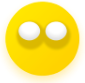
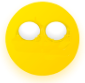
陀螺仪指南针 + 移动的眼睛

Changed region(s): [[0.1882, 0.3133, 0.8235, 0.6024]]

diff --git a/web/scripts/devic/index.js b/web/scripts/devic/index.js
@@ -1,0 +1,48 @@
+'use strict';
+    new VConsole();
+let eyeLeftPosition = {
+    start: [70, 78],
+    end: [100, 110]
+};
+
+let eyeRightPosition = {
+    start: [150, 78],
+    end: [190, 110]
+};
+
+let eyeLeftCenterPosition = {
+    x: (eyeLeftPosition.end[0] - eyeLeftPosition.start[0]) / 2 + eyeLeftPosition.start[0],// X轴 100 - （70 / 2） + 70  = 135
+    y: (eyeLeftPosition.end[1] - eyeLeftPosition.start[1]) / 2 + eyeLeftPosition.start[1] // Y轴 110 - （78 / 2）+ 70 = 135
+};
+
+let eyeRightCenterPosition = {
+    x: (eyeRightPosition.end[0] - eyeRightPosition.start[0]) / 2 + eyeRightPosition.start[0],
+    y: (eyeRightPosition.end[1] - eyeRightPosition.start[1]) / 2 + eyeRightPosition.start[1]
+};
+
+let r = 40;  // 控制旋转
+
+let eyeLeft = document.querySelector('#eyeLeft');
+let eyeRight = document.querySelector('#eyeRight');
+
+if (window.DeviceOrientationEvent) {
+
+    window.addEventListener('deviceorientation', function (event) {
+
+        let {alpha, beta, gamma} = event;
+        console.log(alpha) // Y轴  // 没有使用
+        console.log(beta) // X轴
+        console.log(gamma) // Z轴
+        document.querySelector('#alpha').innerHTML = alpha;
+        document.querySelector('#beta').innerHTML = beta;
+        document.querySelector('#gamma').innerHTML =gamma + '----' + gamma / 90 * r;
+
+        eyeLeft.style.left = eyeLeftCenterPosition.x + gamma / 90 * r + 'px'; // 左眼边距位置
+        eyeRight.style.left = eyeRightCenterPosition.x + gamma / 90 * r + 'px';  // 右眼的边距状态
+        eyeLeft.style.top = eyeRight.style.top = eyeLeftCenterPosition.y + beta / 180 * r + 'px';  // 到顶部距离
+        eyeRight.style.transform = eyeLeft.style.transform = 'rotate(' + beta + 'deg)';  // 眼睛旋转角度
+
+    }, false);
+} else {
+    document.querySelector('body').innerHTML = '浏览器不支持DeviceOrientationEvent';
+}

diff --git a/web/styles/device/style.css b/web/styles/device/style.css
@@ -1,0 +1,37 @@
+#box{
+    position: relative;
+    width: 300px;
+    margin: 0 auto;
+}
+#face{
+    background-image: url('../../images/face.png');
+    background-size: cover;
+    width: 300px;
+    height: 300px;
+    position: absolute;
+}
+#eyeLeft{
+    background-image: url(../images/eye.png);
+    background-size: cover;
+    width: 40px;
+    height: 40px;
+    position: absolute;
+    top: 90px;
+    left: 100px;
+}
+#eyeRight{
+    background-image: url('../../images/eye.png');
+    background-size: cover;
+    width: 40px;
+    height: 40px;
+    position: absolute;
+    top: 90px;
+    left: 190px;
+}
+#glass{
+    background-image: url('../../images/glass.png');
+    background-size: cover;
+    width: 300px;
+    height: 300px;
+    position: absolute;
+}

diff --git a/web/pages/Device/eye.htm b/web/pages/Device/eye.htm
@@ -1,0 +1,24 @@
+<!DOCTYPE html>
+<html lang="en">
+<head>
+    <meta charset="UTF-8">
+    <meta name="viewport" content="width=device-width, initial-scale=1.0, maximum-scale=1.0, user-scalable=no">
+    <title>Document</title>
+    <link rel="stylesheet" href="../../styles/device/style.css">
+    <script src="./../../scripts/common/console.js"></script>
+</head>
+<body>
+<p>alpha: <span id="alpha"></span></p>
+<p>beta: <span id="beta"></span></p>
+<p>gamma: <span id="gamma"></span></p>
+<div id="box">
+    <div id="face"></div>
+    <div id="eyeLeft"></div>
+    <div id="eyeRight"></div>
+    <div id="glass"></div>
+    <div id="log"></div>
+</div>
+
+<script src="./../../scripts/devic/index.js"></script>
+</body>
+</html>

diff --git a/web/pages/Device/glas.htm b/web/pages/Device/glas.htm
@@ -28,12 +28,12 @@
 <button class="btn-inter posit">点击生成二维码</button>
 <div id="modal"></div>
 <div id="center">
-    <iframe src="http://116.62.168.126/pages/Device/Nouth.html" width="100%" height="100%" frameborder="0"></iframe>
+    <iframe src="http://116.62.168.126/pages/Device/eye.htm" width="100%" height="100%" frameborder="0"></iframe>
 </div>
 <script>
     $('.posit').click(function(){
         $('#modal').load('../QRcode/index.htm')
-        $.cookie('url', 'http://116.62.168.126/pages/Device/Nouth.html?v=1.0');
+        $.cookie('url', 'http://116.62.168.126/pages/Device/eye.htm?v=1.0');
     })
 </script>
 </body>
